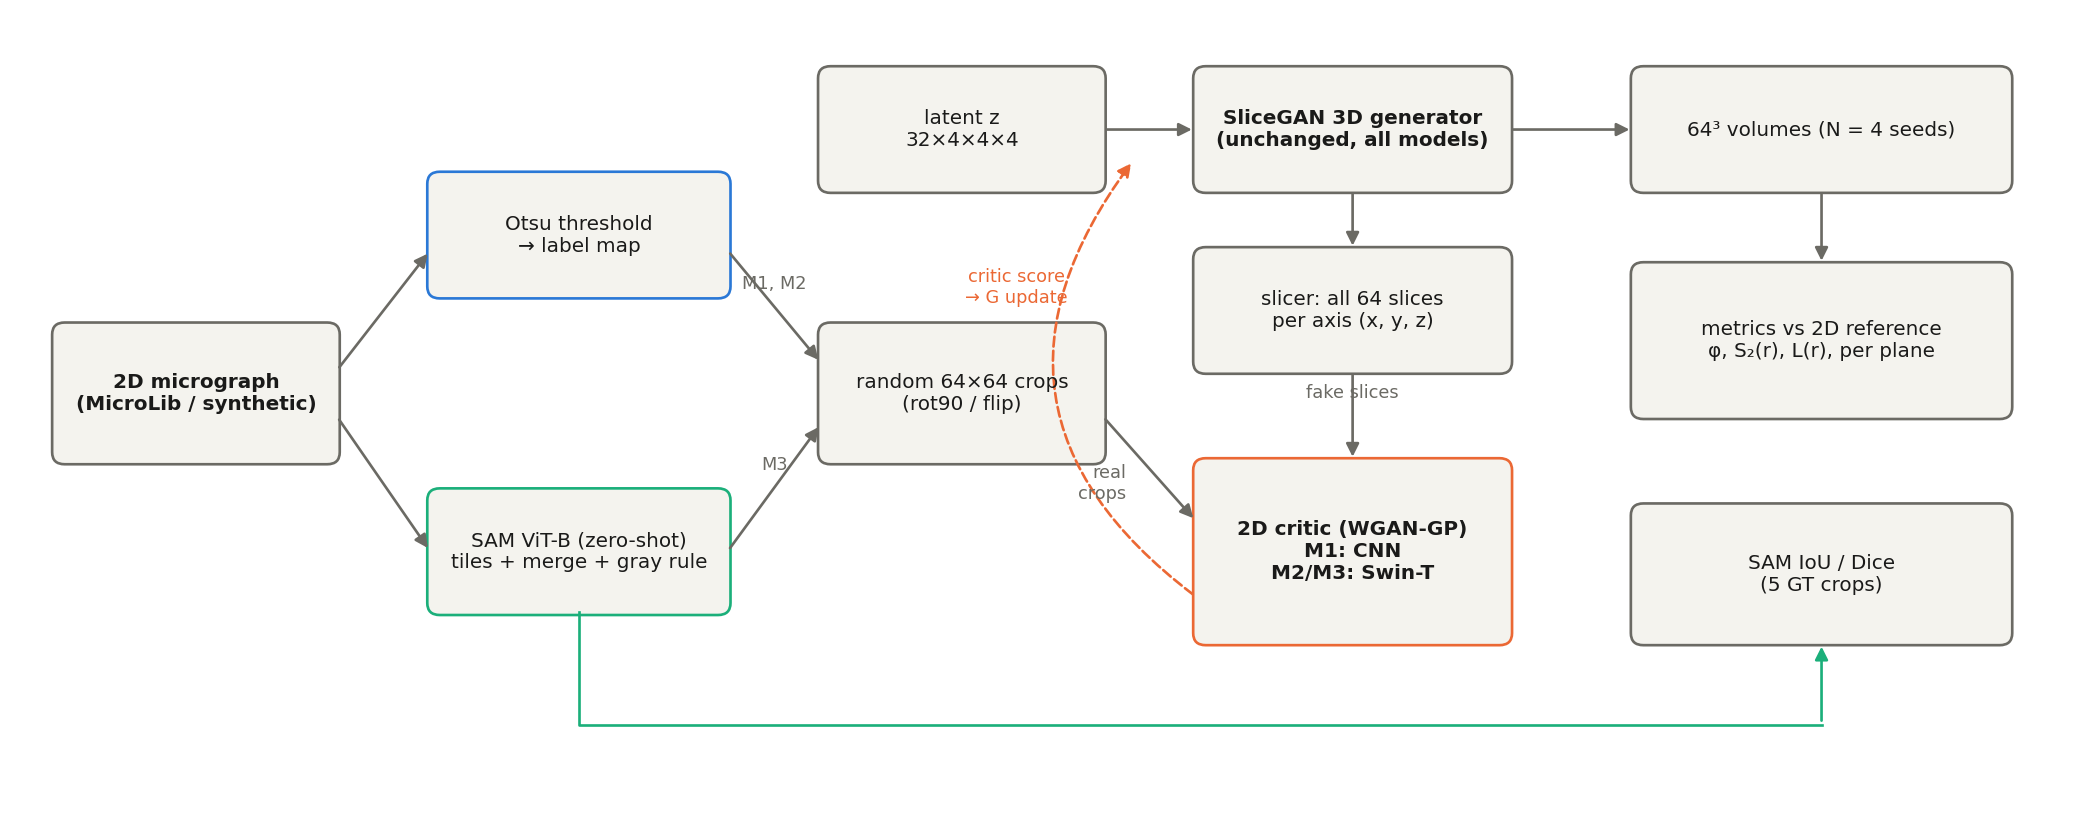
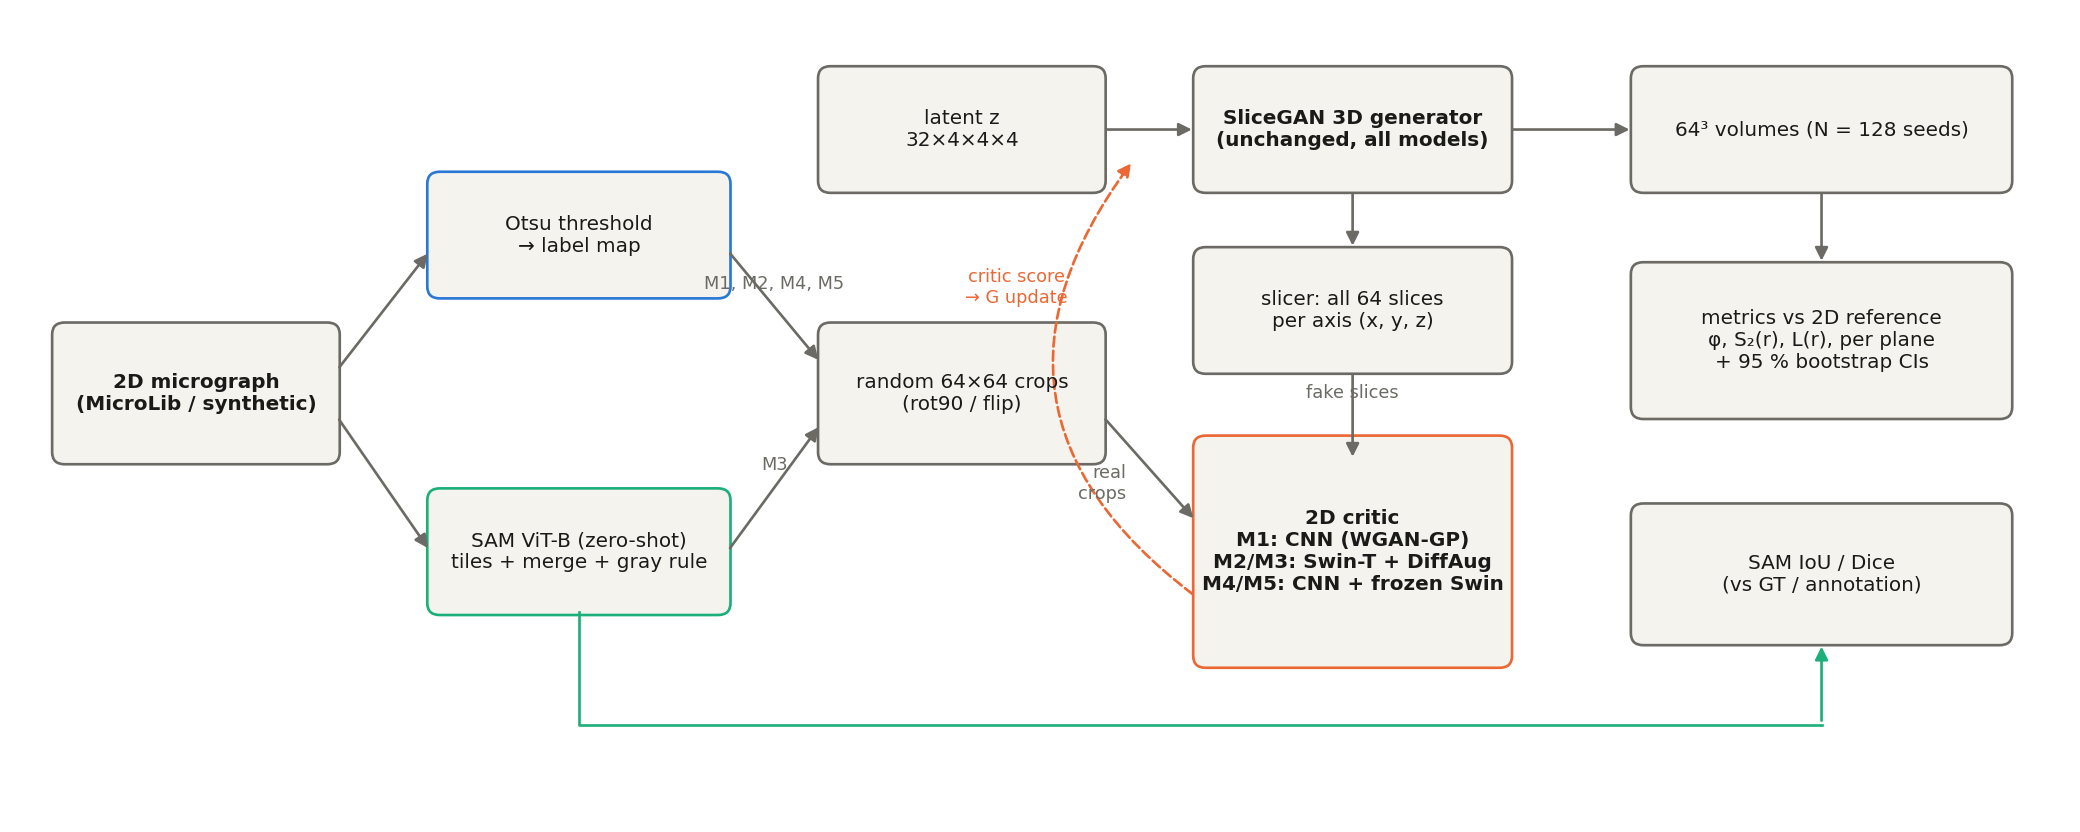
PDF export (pandoc -> HTML -> headless Edge) and refreshed pipeline diagram
- src/visualization/build_report.py + reports/report.css: A4 print styling, self-contained HTML,
  builds report.pdf and report_es.pdf when present (make report-pdf); LaTeX route dropped (MiKTeX
  hung on package/font setup)
- pipeline.png: critics of M1-M5, 128 evaluation seeds, bootstrap CIs, SAM references

diff --git a/reports/report.css b/reports/report.css
@@ -1,0 +1,32 @@
+/* Print stylesheet for the report PDF (pandoc HTML -> headless Edge/Chrome "print to PDF"). */
+@page { size: A4; margin: 18mm 17mm 20mm 17mm; }
+
+:root { --ink: #1a1a19; --muted: #5b5b57; --rule: #d6d6d0; --accent: #1c5cab; --fill: #f4f4f1; }
+
+html { font-size: 10.5pt; }
+body {
+  font-family: Cambria, "Times New Roman", Georgia, serif;
+  color: var(--ink); background: #ffffff; line-height: 1.42;
+  max-width: 100%; margin: 0;
+}
+h1, h2, h3 { font-family: Calibri, "Segoe UI", Arial, sans-serif; line-height: 1.2; break-after: avoid; }
+h1 { font-size: 19pt; margin: 0 0 4pt; }
+h2 { font-size: 14pt; margin: 18pt 0 6pt; padding-bottom: 3pt; border-bottom: 1px solid var(--rule); }
+h3 { font-size: 11.5pt; margin: 13pt 0 4pt; }
+p, li { text-align: justify; hyphens: auto; }
+a { color: var(--accent); text-decoration: none; }
+code { font-family: Consolas, "Cascadia Mono", monospace; font-size: 0.88em; background: var(--fill); padding: 0 2px; }
+pre { background: var(--fill); padding: 6pt 8pt; overflow-wrap: anywhere; white-space: pre-wrap; font-size: 0.85em; }
+blockquote { margin: 6pt 0; padding: 4pt 10pt; border-left: 3px solid var(--rule); color: var(--muted); }
+
+table { border-collapse: collapse; width: 100%; margin: 8pt 0 10pt; font-size: 8.8pt; break-inside: avoid; }
+th, td { border-bottom: 1px solid var(--rule); padding: 3pt 5pt; vertical-align: top; text-align: left; }
+th { border-bottom: 1.5px solid var(--ink); font-family: Calibri, "Segoe UI", Arial, sans-serif; }
+td { font-variant-numeric: tabular-nums; }
+
+figure, img { break-inside: avoid; }
+img { max-width: 100%; height: auto; display: block; margin: 6pt auto; }
+figure { margin: 8pt 0; }
+figcaption { font-size: 9pt; color: var(--muted); text-align: center; }
+
+header#title-block-header { display: none; } /* the document's own H1 is the title */

diff --git a/src/visualization/build_report.py b/src/visualization/build_report.py
@@ -1,0 +1,73 @@
+"""Build the report PDFs: Markdown -> self-contained HTML (pandoc) -> PDF (headless Edge / Chrome)."""
+
+from __future__ import annotations
+
+import argparse
+import shutil
+import subprocess
+import tempfile
+from pathlib import Path
+
+from src.utils import get_logger, setup_logging
+
+log = get_logger(__name__)
+
+BROWSERS = (
+    r"C:\Program Files (x86)\Microsoft\Edge\Application\msedge.exe",
+    r"C:\Program Files\Microsoft\Edge\Application\msedge.exe",
+    r"C:\Program Files\Google\Chrome\Application\chrome.exe",
+    "msedge", "google-chrome", "chromium", "chromium-browser",
+)
+
+
+def find_browser() -> str:
+    """First available Chromium-based browser (used only for its print-to-PDF)."""
+    for b in BROWSERS:
+        if Path(b).exists() or shutil.which(b):
+            return b
+    raise FileNotFoundError("No Edge/Chrome/Chromium found for PDF printing")
+
+
+def build(md: Path, css: Path, out_pdf: Path, title: str) -> Path:
+    """Convert one Markdown report to PDF; figures are resolved relative to the Markdown file."""
+    html = out_pdf.with_suffix(".html")
+    try:
+        subprocess.run(
+            ["pandoc", str(md), "-s", "--embed-resources", "--css", str(css), "--resource-path", str(md.parent),
+             "--metadata", f"pagetitle={title}", "-o", str(html)],
+            check=True, capture_output=True, text=True,
+        )
+    except FileNotFoundError as exc:
+        raise FileNotFoundError("pandoc not found on PATH") from exc
+    except subprocess.CalledProcessError as exc:
+        raise RuntimeError(f"pandoc failed for {md}: {exc.stderr}") from exc
+
+    with tempfile.TemporaryDirectory() as profile:
+        subprocess.run(
+            [find_browser(), "--headless=new", "--disable-gpu", f"--user-data-dir={profile}",
+             "--no-pdf-header-footer", f"--print-to-pdf={out_pdf.resolve()}", html.resolve().as_uri()],
+            check=True, capture_output=True, text=True, timeout=300,
+        )
+    if not out_pdf.exists() or out_pdf.stat().st_size < 10_000:
+        raise RuntimeError(f"PDF was not written: {out_pdf}")
+    log.info("%s -> %s (%.0f KB)", md, out_pdf, out_pdf.stat().st_size / 1024)
+    return out_pdf
+
+
+def main() -> None:
+    """CLI: build reports/report.pdf (English) and reports/report_es.pdf (Spanish) when present."""
+    parser = argparse.ArgumentParser(description=__doc__)
+    parser.add_argument("--reports", default="reports")
+    args = parser.parse_args()
+    setup_logging("logs", "build_report", "INFO")
+    root = Path(args.reports)
+    css = root / "report.css"
+    for name, title in (("report", "SliceGAN with Vision Transformer discriminators"),
+                        ("report_es", "SliceGAN con discriminadores Vision Transformer")):
+        md = root / f"{name}.md"
+        if md.exists():
+            build(md, css, root / f"{name}.pdf", title)
+
+
+if __name__ == "__main__":
+    main()

diff --git a/src/visualization/visualize.py b/src/visualization/visualize.py
@@ -343,14 +343,14 @@ def plot_pipeline(path: str | Path) -> None:
     box(5.1, 4.1, 1.8, 0.8, "latent z\n32×4×4×4")
     box(7.5, 4.1, 2.0, 0.8, "SliceGAN 3D generator\n(unchanged, all models)", bold=True)
     box(7.5, 2.9, 2.0, 0.8, "slicer: all 64 slices\nper axis (x, y, z)")
-    box(7.5, 1.1, 2.0, 1.2, "2D critic (WGAN-GP)\nM1: CNN\nM2/M3: Swin-T", bold=True, edge=orange)
-    box(10.3, 4.1, 2.4, 0.8, "64³ volumes (N = 4 seeds)")
-    box(10.3, 2.6, 2.4, 1.0, "metrics vs 2D reference\nφ, S₂(r), L(r), per plane")
-    box(10.3, 1.1, 2.4, 0.9, "SAM IoU / Dice\n(5 GT crops)")
+    box(7.5, 0.95, 2.0, 1.5, "2D critic\nM1: CNN (WGAN-GP)\nM2/M3: Swin-T + DiffAug\nM4/M5: CNN + frozen Swin", bold=True, edge=orange)
+    box(10.3, 4.1, 2.4, 0.8, "64³ volumes (N = 128 seeds)")
+    box(10.3, 2.6, 2.4, 1.0, "metrics vs 2D reference\nφ, S₂(r), L(r), per plane\n+ 95 % bootstrap CIs")
+    box(10.3, 1.1, 2.4, 0.9, "SAM IoU / Dice\n(vs GT / annotation)")
 
     arrow((2.0, 2.9), (2.6, 3.7))
     arrow((2.0, 2.6), (2.6, 1.7))
-    arrow((4.5, 3.7), (5.1, 2.95), "M1, M2")
+    arrow((4.5, 3.7), (5.1, 2.95), "M1, M2, M4, M5")
     arrow((4.5, 1.7), (5.1, 2.55), "M3")
     arrow((6.9, 4.5), (7.5, 4.5))
     arrow((8.5, 4.1), (8.5, 3.7))
